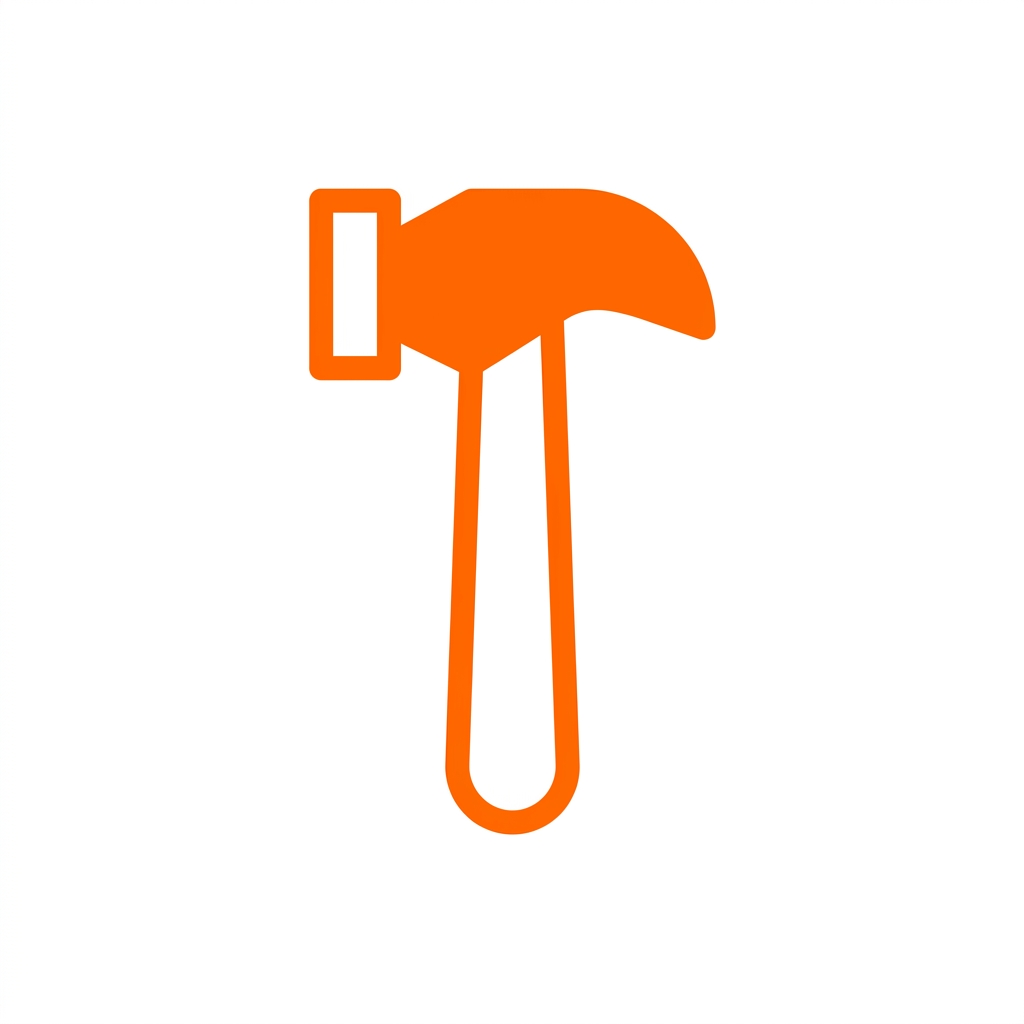
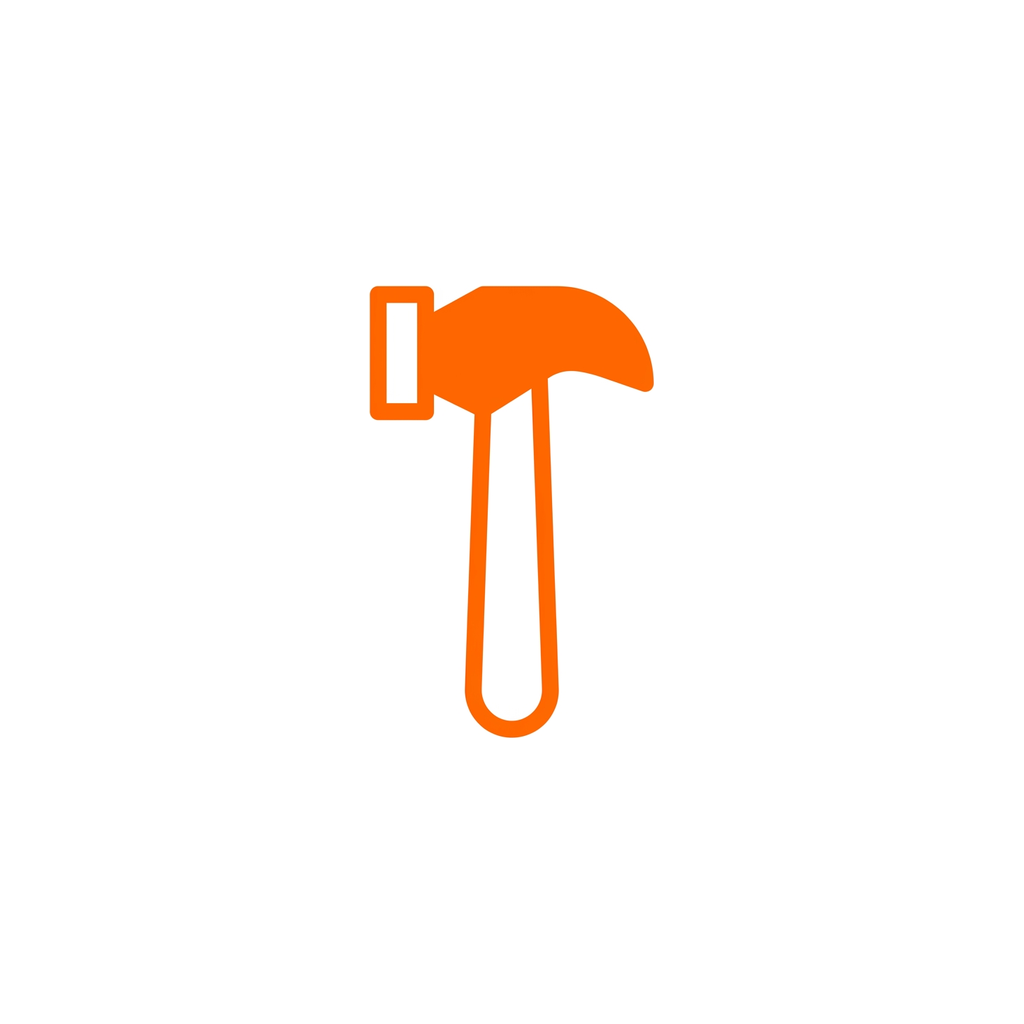
fix(mobile): style status bar, improve login/registration layout, resize assets and update inbox styles

Changed region(s): [[0.2812, 0.1562, 0.7188, 0.8125]]

diff --git a/mobile/app/(tabs)/inbox.tsx b/mobile/app/(tabs)/inbox.tsx
@@ -567,20 +567,20 @@ export default function InboxScreen() {
                 style={[
                   styles.chatMessageRow,
                   selectedBooking.requesterId === currentUser.id
-                    ? styles.chatMessageRowIncoming
-                    : styles.chatMessageRowOutgoing,
+                    ? styles.chatMessageRowOutgoing
+                    : styles.chatMessageRowIncoming,
                 ]}
               >
-                {selectedBooking.requesterId === currentUser.id && (
+                {selectedBooking.requesterId !== currentUser.id && (
                   <View style={[styles.msgAvatar, styles.msgAvatarIncoming]}>
-                    <ThemedText style={styles.msgAvatarText}>{getInitials(currentUser.name || 'Du') || 'D'}</ThemedText>
+                    <ThemedText style={styles.msgAvatarText}>{getInitials(counterpartName || 'Kontakt') || 'K'}</ThemedText>
                   </View>
                 )}
                 <View
                   style={
                     selectedBooking.requesterId === currentUser.id
-                      ? styles.messageMetaWrapIncoming
-                      : styles.messageMetaWrapOutgoing
+                      ? styles.messageMetaWrapOutgoing
+                      : styles.messageMetaWrapIncoming
                   }
                 >
                   <ThemedText type="muted" style={styles.messageMeta}>
@@ -589,7 +589,7 @@ export default function InboxScreen() {
                   <View
                     style={[
                       styles.messageBubble,
-                      selectedBooking.requesterId === currentUser.id ? styles.incomingBubble : styles.outgoingBubble,
+                      selectedBooking.requesterId === currentUser.id ? styles.outgoingBubble : styles.incomingBubble,
                     ]}
                   >
                     <View style={styles.messageIconRow}>
@@ -606,9 +606,9 @@ export default function InboxScreen() {
                     </View>
                   </View>
                 </View>
-                {selectedBooking.requesterId !== currentUser.id && (
+                {selectedBooking.requesterId === currentUser.id && (
                   <View style={[styles.msgAvatar, styles.msgAvatarOutgoing]}>
-                    <ThemedText style={styles.msgAvatarText}>{getInitials(counterpartName || 'Kontakt') || 'K'}</ThemedText>
+                    <ThemedText style={styles.msgAvatarText}>{getInitials(currentUser.name || 'Du') || 'D'}</ThemedText>
                   </View>
                 )}
               </View>
@@ -623,19 +623,19 @@ export default function InboxScreen() {
                     key={proposal.id}
                     style={[
                       styles.chatMessageRow,
-                      fromOtherUser ? styles.chatMessageRowOutgoing : styles.chatMessageRowIncoming,
+                      fromOtherUser ? styles.chatMessageRowIncoming : styles.chatMessageRowOutgoing,
                     ]}
                   >
-                    {!fromOtherUser && (
+                    {fromOtherUser && (
                       <View style={[styles.msgAvatar, styles.msgAvatarIncoming]}>
                         <ThemedText style={styles.msgAvatarText}>{getInitials(senderName) || 'K'}</ThemedText>
                       </View>
                     )}
-                    <View style={fromOtherUser ? styles.messageMetaWrapOutgoing : styles.messageMetaWrapIncoming}>
+                    <View style={fromOtherUser ? styles.messageMetaWrapIncoming : styles.messageMetaWrapOutgoing}>
                       <ThemedText type="muted" style={styles.messageMeta}>
                         {fromOtherUser ? senderName : 'Du'} · {formatDateTime(proposal.createdIso)}
                       </ThemedText>
-                      <View style={[styles.messageBubble, fromOtherUser ? styles.outgoingBubble : styles.incomingBubble]}>
+                      <View style={[styles.messageBubble, fromOtherUser ? styles.incomingBubble : styles.outgoingBubble]}>
                         <View style={styles.messageIconRow}>
                           <Ionicons name="swap-horizontal-outline" size={20} color={Colors.brand} />
                           <ThemedText type="defaultSemiBold" style={{marginLeft: Spacing.xs}}>
@@ -652,7 +652,7 @@ export default function InboxScreen() {
                         </View>
                       </View>
                     </View>
-                    {fromOtherUser && (
+                    {!fromOtherUser && (
                       <View style={[styles.msgAvatar, styles.msgAvatarOutgoing]}>
                         <ThemedText style={styles.msgAvatarText}>{getInitials(currentUser.name || 'Du') || 'D'}</ThemedText>
                       </View>
@@ -671,19 +671,19 @@ export default function InboxScreen() {
                     key={proposal.id}
                     style={[
                       styles.chatMessageRow,
-                      fromOtherUser ? styles.chatMessageRowOutgoing : styles.chatMessageRowIncoming,
+                      fromOtherUser ? styles.chatMessageRowIncoming : styles.chatMessageRowOutgoing,
                     ]}
                   >
-                    {!fromOtherUser && (
+                    {fromOtherUser && (
                       <View style={[styles.msgAvatar, styles.msgAvatarIncoming]}>
                         <ThemedText style={styles.msgAvatarText}>{getInitials(senderName) || 'K'}</ThemedText>
                       </View>
                     )}
-                    <View style={fromOtherUser ? styles.messageMetaWrapOutgoing : styles.messageMetaWrapIncoming}>
+                    <View style={fromOtherUser ? styles.messageMetaWrapIncoming : styles.messageMetaWrapOutgoing}>
                       <ThemedText type="muted" style={styles.messageMeta}>
                         {fromOtherUser ? senderName : 'Du'} · {formatDateTime(proposal.createdIso)}
                       </ThemedText>
-                      <View style={[styles.messageBubble, fromOtherUser ? styles.outgoingBubble : styles.incomingBubble]}>
+                      <View style={[styles.messageBubble, fromOtherUser ? styles.incomingBubble : styles.outgoingBubble]}>
                         <View style={styles.messageIconRow}>
                           <Ionicons name="swap-horizontal-outline" size={20} color={Colors.brand} />
                           <ThemedText type="defaultSemiBold" style={{marginLeft: Spacing.xs}}>
@@ -700,7 +700,7 @@ export default function InboxScreen() {
                         </View>
                       </View>
                     </View>
-                    {fromOtherUser && (
+                    {!fromOtherUser && (
                       <View style={[styles.msgAvatar, styles.msgAvatarOutgoing]}>
                         <ThemedText style={styles.msgAvatarText}>{getInitials(currentUser.name || 'Du') || 'D'}</ThemedText>
                       </View>
@@ -711,8 +711,12 @@ export default function InboxScreen() {
 
               {selectedBooking.status !== 'OFFEN' && (
                 <View style={styles.systemEventWrap}>
-                  <View style={[styles.messageBubble, styles.statusBubble]}>
-                    <View style={styles.messageIconRow}>
+                  <View style={[
+                    styles.messageBubble,
+                    styles.statusBubble,
+                    selectedBooking.status === 'ABGELEHNT' && { borderColor: Colors.danger }
+                  ]}>
+                    <View style={[styles.messageIconRow, { justifyContent: 'center', marginBottom: 0 }]}>
                       <Ionicons
                         name={
                           selectedBooking.status === 'BESTAETIGT'
@@ -724,7 +728,10 @@ export default function InboxScreen() {
                         size={20}
                         color={selectedBooking.status === 'ABGELEHNT' ? Colors.danger : Colors.success}
                       />
-                      <ThemedText type="defaultSemiBold" style={{marginLeft: Spacing.xs}}>
+                      <ThemedText type="defaultSemiBold" style={{
+                        marginLeft: Spacing.xs,
+                        color: selectedBooking.status === 'ABGELEHNT' ? Colors.danger : Colors.success
+                      }}>
                         {selectedBooking.status === 'BESTAETIGT'
                           ? 'Anfrage angenommen'
                           : selectedBooking.status === 'ABGELEHNT'

diff --git a/mobile/app/(auth)/login.tsx b/mobile/app/(auth)/login.tsx
@@ -9,6 +9,7 @@ import {
   Platform,
   ActivityIndicator,
 } from 'react-native';
+import { Ionicons } from '@expo/vector-icons';
 import { api } from '@toolshare/shared';
 import { useAuth } from '../../hooks/useAuth';
 import { ThemedText } from '../../components/ThemedText';
@@ -30,6 +31,8 @@ export default function LoginScreen() {
   const [address, setAddress] = useState<AddressFormFields>({ ...EMPTY_ADDRESS });
   const [password, setPassword] = useState('');
   const [repeatPassword, setRepeatPassword] = useState('');
+  const [showPassword, setShowPassword] = useState(false);
+  const [showRepeatPassword, setShowRepeatPassword] = useState(false);
   const [isLoading, setIsLoading] = useState(false);
   const [error, setError] = useState<string | null>(null);
 
@@ -96,9 +99,11 @@ export default function LoginScreen() {
           </ThemedText>
 
           <View style={styles.form}>
+            <ThemedText style={styles.label}>E-Mail *</ThemedText>
             <TextInput
               style={styles.input}
-              placeholder="E-Mail *"
+              placeholder="E-Mail"
+              placeholderTextColor={Colors.textMuted}
               value={email}
               onChangeText={setEmail}
               autoCapitalize="none"
@@ -108,9 +113,11 @@ export default function LoginScreen() {
 
             {isRegister && (
               <>
+                <ThemedText style={styles.label}>Name *</ThemedText>
                 <TextInput
                   style={styles.input}
-                  placeholder="Name *"
+                  placeholder="Name"
+                  placeholderTextColor={Colors.textMuted}
                   value={name}
                   onChangeText={setName}
                   autoCapitalize="words"
@@ -120,31 +127,63 @@ export default function LoginScreen() {
                 <AddressInput
                   value={address}
                   onChange={setAddress}
-                  label="Adresse *"
+                  label="Adresse"
                   required
                 />
               </>
             )}
 
-            <TextInput
-              style={styles.input}
-              placeholder={isRegister ? 'Passwort (mind. 8 Zeichen) *' : 'Passwort *'}
-              value={password}
-              onChangeText={setPassword}
-              secureTextEntry
-              autoComplete={isRegister ? 'new-password' : 'password'}
-            />
+            <ThemedText style={styles.label}>
+              {isRegister ? 'Passwort (mind. 8 Zeichen) *' : 'Passwort *'}
+            </ThemedText>
+            <View style={styles.passwordContainer}>
+              <TextInput
+                style={styles.passwordInput}
+                placeholder={isRegister ? 'Passwort (mind. 8 Zeichen)' : 'Passwort'}
+                placeholderTextColor={Colors.textMuted}
+                value={password}
+                onChangeText={setPassword}
+                secureTextEntry={!showPassword}
+                autoComplete={isRegister ? 'new-password' : 'password'}
+              />
+              <TouchableOpacity
+                style={styles.eyeButton}
+                onPress={() => setShowPassword(!showPassword)}
+                accessibilityLabel={showPassword ? 'Passwort ausblenden' : 'Passwort anzeigen'}
+              >
+                <Ionicons
+                  name={showPassword ? 'eye-off' : 'eye'}
+                  size={22}
+                  color={Colors.textMuted}
+                />
+              </TouchableOpacity>
+            </View>
 
             {isRegister && (
               <>
-                <TextInput
-                  style={[styles.input, passwordsMismatch && styles.inputInvalid]}
-                  placeholder="Passwort wiederholen *"
-                  value={repeatPassword}
-                  onChangeText={setRepeatPassword}
-                  secureTextEntry
-                  autoComplete="new-password"
-                />
+                <ThemedText style={styles.label}>Passwort wiederholen *</ThemedText>
+                <View style={[styles.passwordContainer, passwordsMismatch && styles.inputInvalid]}>
+                  <TextInput
+                    style={styles.passwordInput}
+                    placeholder="Passwort wiederholen"
+                    placeholderTextColor={Colors.textMuted}
+                    value={repeatPassword}
+                    onChangeText={setRepeatPassword}
+                    secureTextEntry={!showRepeatPassword}
+                    autoComplete="new-password"
+                  />
+                  <TouchableOpacity
+                    style={styles.eyeButton}
+                    onPress={() => setShowRepeatPassword(!showRepeatPassword)}
+                    accessibilityLabel={showRepeatPassword ? 'Passwort ausblenden' : 'Passwort anzeigen'}
+                  >
+                    <Ionicons
+                      name={showRepeatPassword ? 'eye-off' : 'eye'}
+                      size={22}
+                      color={Colors.textMuted}
+                    />
+                  </TouchableOpacity>
+                </View>
 
                 {passwordsMismatch && (
                   <ThemedText style={styles.fieldError}>Passwörter stimmen nicht überein.</ThemedText>
@@ -227,6 +266,12 @@ const styles = StyleSheet.create({
     marginBottom: Spacing.xl,
   },
   form: {},
+  label: {
+    fontSize: 14,
+    fontWeight: 'bold',
+    marginBottom: Spacing.xs,
+    color: Colors.text,
+  },
   input: {
     borderWidth: 1,
     borderColor: Colors.border,
@@ -236,6 +281,26 @@ const styles = StyleSheet.create({
     fontSize: 16,
     color: Colors.text,
     backgroundColor: Colors.surface,
+  },
+  passwordContainer: {
+    flexDirection: 'row',
+    alignItems: 'center',
+    borderWidth: 1,
+    borderColor: Colors.border,
+    borderRadius: Radius.md,
+    backgroundColor: Colors.surface,
+    marginBottom: Spacing.md,
+  },
+  passwordInput: {
+    flex: 1,
+    padding: Spacing.md,
+    fontSize: 16,
+    color: Colors.text,
+  },
+  eyeButton: {
+    paddingHorizontal: Spacing.md,
+    justifyContent: 'center',
+    alignItems: 'center',
   },
   inputInvalid: {
     borderColor: Colors.danger,

diff --git a/mobile/app/_layout.tsx b/mobile/app/_layout.tsx
@@ -42,6 +42,7 @@ function getApiUrl() {
 
 setApiBaseUrl(getApiUrl());
 
+import { StatusBar } from 'expo-status-bar';
 import { usePushNotifications } from '../hooks/usePushNotifications';
 
 function AppLayout() {
@@ -56,6 +57,7 @@ function AppLayout() {
     <View style={styles.container}>
       <Slot />
       <ToastViewport />
+      <StatusBar style="dark" />
     </View>
   );
 }
